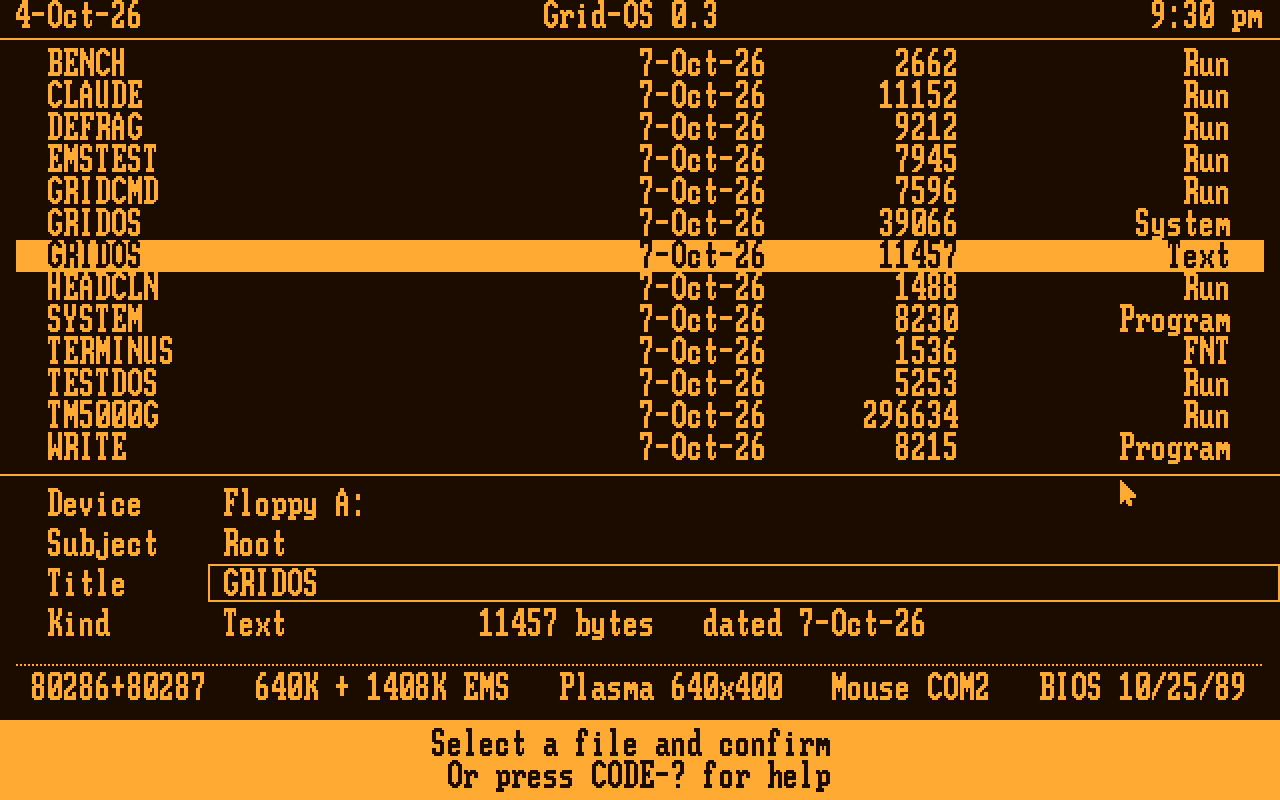
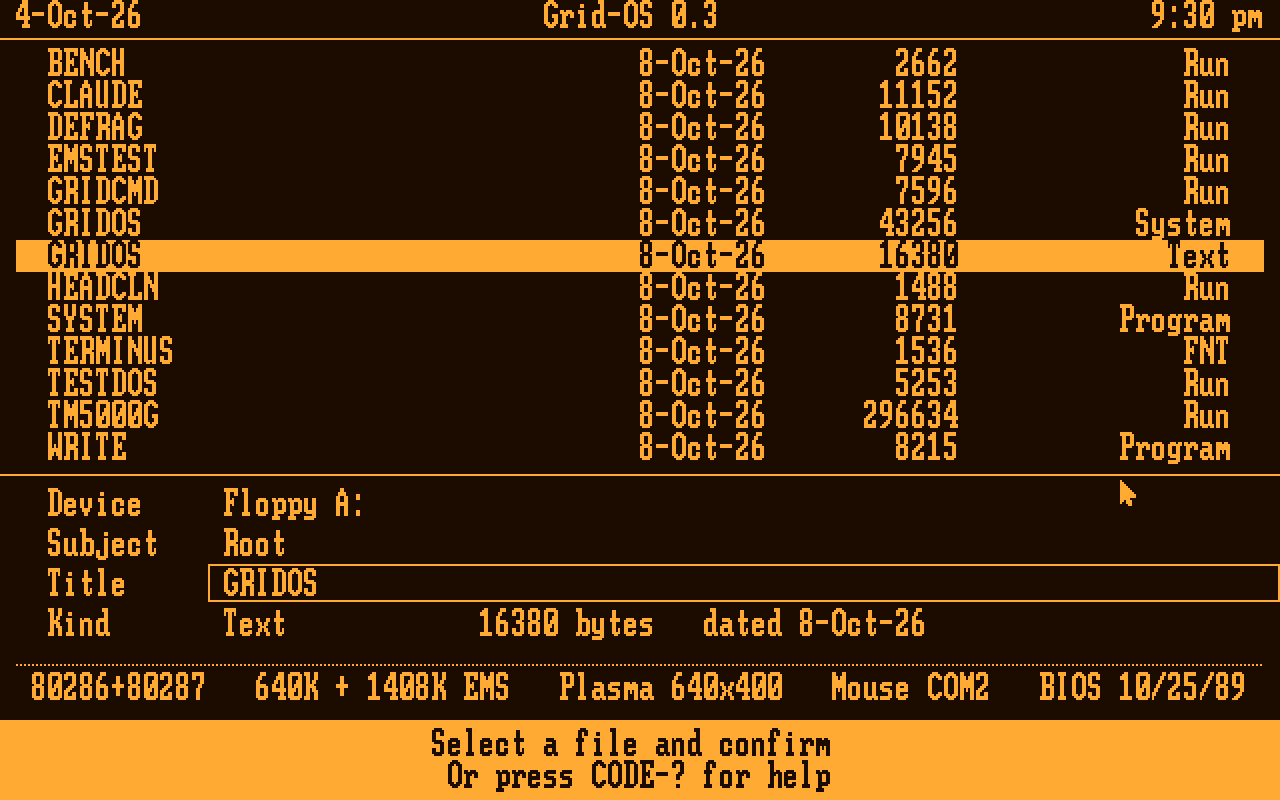
Refresh the README with fresh benchmarks for 0.3.13
- README rewritten for 0.3.13: a "What it does" section, the three-way
  BENCH rerun in the emulator (Grid-OS 79.2 s, GRiD MS-DOS 285.4 s,
  FreeDOS 283.2 s), memory for programs in all four configurations
  (floppies, EMS, C:, C: + EMS), the hard disk's figures on the 1520,
  every test suite with its count (635 checks, all passing), and the
  next steps.
- Screenshots regenerated, plus a new one of System's Disks with C:.
- RESULTS3.TXT: the 0.3.13 rerun, newest first.
- compare3.py / run_bench.py no longer print a stale version label.
- docs/gridos-defrag.md: the saver's source file and DEFRAG.COM's size.

diff --git a/gridos/screens/readme_shots.py b/gridos/screens/readme_shots.py
@@ -38,4 +38,18 @@ k.select('BENCH.COM'); k.pc.tty.clear(); k.key(ktest.ENTER, settle=False)
 k.pc.run_until(lambda: k.pc.mode() != 0x40, 10)
 k.pc.run_until(lambda: 'Press any key' in ''.join(k.pc.tty), 900)
 shot('bench')
+
+# System's Disks with the internal hard disk as C:: the CP30104H's own
+# partition table and boot sector, a few files on it
+import struct, pcemu, fat16img as F
+rom = os.path.join(GOS, '..', 'rom', 'hd_cp30104h')
+sect0 = open(os.path.join(rom, 'HDSECT0.BIN'), 'rb').read()
+plba, n = struct.unpack_from('<II', sect0, 446 + 8)
+f = F.Fat(n, 4, plba, True)
+f.finish(f.tree([('COMMAND.COM', 0x20, b'C' * 47845), ('TM5000', 0, [('TM5000G.EXE', 0x20, b'T' * 296634)])]))
+f.img[0:512] = open(os.path.join(rom, 'HDBOOT.BIN'), 'rb').read()
+d = bytearray(762 * 8 * 39 * 512); d[0:512] = sect0; d[plba * 512:(plba + n) * 512] = f.img
+ata = pcemu.Ata(model='Conner Peripherals 120MB - CP30104H', cyls=762, heads=8, spt=39, disk=d)
+k = ktest.KPC(img, ems_pages=88, ata=ata); k.start(20)
+k.key(CODE['U']); k.key(ktest.DOWN); shot('system_disks'); k.key(ktest.ESC)
 print('\n'.join(sorted(os.listdir(OUT))))

diff --git a/gridos/bench/run_bench.py b/gridos/bench/run_bench.py
@@ -74,7 +74,7 @@ if __name__ == '__main__':
     if not ROM: sys.exit('needs the GRiD MS-DOS EPROM image (GRID_MSDOS330_ROM_300909-00.BIN)')
     t = time.time()
     g, gout = run_gridos()
-    print('==== Grid-OS 0.2.1 ====\n' + gout.strip() + '\n')
+    print('==== Grid-OS ====\n' + gout.strip() + '\n')
     d, dout = run_msdos()
     print('==== GRiD MS-DOS 3.30 ====\n' + dout.strip() + '\n')
     rg, rd = results(g), results(d)

diff --git a/gridos/bench/compare3.py b/gridos/bench/compare3.py
@@ -73,7 +73,7 @@ def freedos(prog, ems, limit=900):
 
 if __name__ == '__main__':
     t = time.time()
-    systems = (('Grid-OS 0.3.8', gridos), ('GRiD MS-DOS 3.30', msdos), ('FreeDOS 2046+FreeCOM', freedos))
+    systems = (('Grid-OS', gridos), ('GRiD MS-DOS 3.30', msdos), ('FreeDOS 2046+FreeCOM', freedos))
     mem = {}
     for name, run in systems:
         for ems in (0, EMS):

diff --git a/README.md b/README.md
@@ -1,53 +1,84 @@
 # Lodestone
 
-A fast DOS 3.30-compatible OS for the GRiDCase 1520 (80C286, 640×400 gas-plasma display, 1.44 MB floppy). It has its own Executive, a disk cache, a built-in GPIB driver, a screen saver that defragments its disks, and (from 0.3) a shared UI core with programs of its own: System and Write.
+A fast DOS 3.30-compatible OS for the GRiDCase 1520 (80C286, 640×400 gas-plasma display, 1.44 MB floppy; Joshua's also has an 80287 and 1408 KB of EMS). It has a GRiD-style Executive, a disk cache, a built-in GPIB driver, its own EMS manager, the internal hard disk as drive C:, and a screen saver that defragments every disk. Programs of its own (System and Write) run on a shared UI core.
 
 > **Name:** Lodestone is the working name. The code, the files on the floppy and the screen still say **Grid-OS** (`GRIDOS.SYS`, "Grid-OS 0.3"). Renaming those is a separate step.
 
-It boots from a floppy, shows a GRiD-style Executive, runs ordinary DOS programs (TM5000G, CLAUDE.COM, …) and comes back. On the real 1520 it runs the BENCH file-system benchmark in **83 s against GRiD MS-DOS's 289 s**, and it's ahead on all ten tests.
+It boots from a floppy, shows the Executive, runs ordinary DOS programs (TM5000G, CLAUDE.COM, …) and comes back. On the real 1520 it runs the BENCH file-system benchmark in **87 s against GRiD MS-DOS's 289 s**, more than 3× faster (83 s with 0.2.3).
 
 | | |
 |---|---|
 | ![The Executive](gridos/screens/readme/executive.png) | ![Copy with a wildcard](gridos/screens/readme/copy_wildcards.png) |
 | The Executive: GRiD's File form (Device, Subject, Title), the 1520's EMS and serial mouse in the status line | Copy, Move and Delete take wildcards, with Replace and Only newer |
-| ![System, Memory](gridos/screens/readme/system_memory.png) | ![Write](gridos/screens/readme/write.png) |
-| System: where the 640 KB goes, and the EMS | Write, a GRiDWrite-style editor |
+| ![System, Memory](gridos/screens/readme/system_memory.png) | ![System, Disks](gridos/screens/readme/system_disks.png) |
+| System: where the 640 KB goes, and the EMS | System: the floppy and the internal hard disk as C: (the 1520's own 121 MB Conner layout) |
+| ![Write](gridos/screens/readme/write.png) | ![BENCH](gridos/screens/readme/bench.png) |
+| Write, a GRiDWrite-style editor | BENCH 1.3 on Grid-OS with EMS |
 
 *Emulator screenshots (`gridos/screens/readme_shots.py`), drawn as the 1520's amber plasma shows them.*
 
+## What it does (0.3.13)
+
+- **A DOS 3.30 kernel** (`GRIDOS.SYS`, 43,256 bytes): INT 21h for the programs of its day, COM and EXE loading, TSRs, INT 24h, INT 25h/26h, FAT12 and FAT16.
+- **Disks:**
+  - **A:** and **B:** (the external floppy drive), with a cylinder read-ahead cache;
+  - **C:**, any IDE drive with a FAT16 partition up to 2 GB, driven through its own registers. The 1520's BIOS only knows a few Conner models, so Grid-OS doesn't use it for this. With a drive, C: costs about 3 KB of memory; without one, nothing is loaded.
+- **EMS:** Grid-OS is its own LIM 4.0 EMS manager when the 1520's memory is set to EMS. The disk cache moves into two EMS pages, so DOS programs get 16 KB more.
+- **GPIB:** the GRIDGPIB API on INT 60h is built in, with a faster block transfer. TM5000G and CLAUDE.COM run unchanged.
+- **The Executive:** GRiD's File form, with CODE-C Copy, CODE-M Move, CODE-R Rename and CODE-D Delete. They take wildcards, Replace and Only newer, and work on whole subjects (directories) too. CODE-P opens the command prompt (`GRIDCMD.COM`), CODE-U opens System, CODE-A starts Claude.
+- **System:** memory, disks, clock, devices (the hard disk's own name), GPIB, display (fonts), screen saver. Settings are kept in `GRIDOS.INI`.
+- **Write:** a GRiDWrite-style text editor.
+- **The screen saver** runs `DEFRAG` on A:, B: and C: in turn, then darkens the screen. A key stops it. Its delay and the tidying are settings.
+- **DEFRAG.COM:** defragments a floppy or C:, with a map of the disk. `/T` tests the free space instead: it writes a pattern into every free sector, reads it back, and marks the clusters that fail. A power cut during any of its writes leaves the old file or the new one, never a damaged one (tested at every write, on a floppy and on C:).
+- **Screen capture:** Shift-PrtSc saves the screen to `SCREENnn.BMP` (graphics) or `SCREENnn.TXT` (text) on the boot disk.
+- **An INT 33h mouse** for DOS programs: a serial mouse on COM1 or COM2.
+- **Claude for GRiD** (`gridos/claude`, `claude-link`): Claude on the GRiD through a Raspberry Pi on the GPIB bus. It can read and edit files, run DOS programs and talk to instruments, each step confirmed on the GRiD. It is tested in emulation and waits for the bridge hardware.
+
 ## Benchmarks: Grid-OS, GRiD MS-DOS 3.30 and FreeDOS
 
-BENCH 1.3 on all three in the emulator, from the same kind of 1.44 MB floppy, with the 1520's real-drive timing (300 rpm, seeks, rotation, motor) and its 1408 KB of EMS. Grid-OS runs its own EMS manager; GRiD MS-DOS and FreeDOS load GRiD's `EMM.SYS`. FreeDOS is kernel build 2046 (8086) with FreeCOM 0.87, built from [FDOS](https://github.com/FDOS) sources. Seconds, lower is better.
+BENCH 1.3 on all three in the emulator (rerun 2026-10-08 with 0.3.13), from the same kind of 1.44 MB floppy, with the 1520's real-drive timing (300 rpm, seeks, rotation, motor) and its 1408 KB of EMS. Grid-OS runs its own EMS manager; GRiD MS-DOS and FreeDOS load GRiD's `EMM.SYS`. FreeDOS is kernel build 2046 (8086) with FreeCOM 0.87, built from [FDOS](https://github.com/FDOS) sources. Seconds, lower is better.
 
-| Test | Grid-OS 0.3.8 | GRiD MS-DOS 3.30 | FreeDOS |
+| Test | Grid-OS 0.3.13 | GRiD MS-DOS 3.30 | FreeDOS |
 |---|---:|---:|---:|
-| Write 256 KB, 16 KB writes | **9.14** | 12.66 | 12.58 |
-| Read 256 KB, 16 KB reads | **8.71** | 11.41 | 11.23 |
-| Read 256 KB, 512-byte reads | **8.62** | 104.99 | 105.17 |
-| Read 256 KB, 128-byte reads | **8.64** | 104.99 | 107.97 |
-| 64 random 512-byte reads | **9.47** | 9.93 | 12.91 |
+| Write 256 KB, 16 KB writes | **9.25** | 12.66 | 12.58 |
+| Read 256 KB, 16 KB reads | **8.80** | 11.41 | 11.23 |
+| Read 256 KB, 512-byte reads | **8.80** | 104.99 | 105.17 |
+| Read 256 KB, 128-byte reads | **8.80** | 104.99 | 107.97 |
+| 64 random 512-byte reads | **9.33** | 9.93 | 12.91 |
 | Directory listing ×10 | **0.02** | 0.07 | 0.14 |
 | Open + close ×100 | **0.22** | 0.42 | 0.91 |
-| 20 small files, create + delete | 21.59 | 26.12 | **16.71** |
-| Load + run a 120 KB .EXE ×3 | **12.64** | 14.68 | 15.29 |
-| INT 21h calls ×1000 | **0.10** | 0.12 | 0.26 |
-| **File-system total** | **79.1** | 285.4 | 283.2 |
+| 20 small files, create + delete | 21.69 | 26.12 | **16.71** |
+| Load + run a 120 KB .EXE ×3 | **12.13** | 14.68 | 15.29 |
+| INT 21h calls ×1000 | **0.11** | 0.12 | 0.26 |
+| **File-system total** | **79.2** | 285.4 | 283.2 |
 | EMS: map a page ×10,000 | **0.42** | 2.86 | 2.86 |
 | EMS: move 1 MB to EMS (57h) | **0.36** | 0.51 | 0.51 |
 | EMS: move 1 MB from EMS (57h) | **0.36** | 0.51 | 0.51 |
-| Memory for programs, no EMS | 564.2 KB | **580.4 KB** | 501.5 KB |
-| Memory for programs, with EMS | **580.3 KB** | 573.1 KB | 494.2 KB |
+| Memory for programs, no EMS | 562.5 KB | **580.4 KB** | 501.5 KB |
+| Memory for programs, with EMS | **578.6 KB** | 573.1 KB | 494.2 KB |
 
 - **Reads:** Grid-OS reads ahead a cylinder at a time, so small reads cost almost nothing; GRiD MS-DOS and FreeDOS wait a turn of the disk for each.
-- **Small files:** FreeDOS wins this one, with as many writes as Grid-OS. Part of it is where its files happen to land (its system files are bigger, which moves BENCH's files to where the FAT sector follows the directory sector). The rest is write order: Grid-OS writes the FAT before the directory entry at close, so a power cut can only lose clusters, never cross-link files. That costs a turn of the disk per file here.
-- **EMS:** Grid-OS's own EMS manager maps a page about 7× faster than `EMM.SYS` and moves data about 1.4× faster, in 1.9 KB of memory against 7.3 KB.
-- **Memory:** with EMS, Grid-OS keeps its 18 KB disk cache in two EMS pages, so a DOS program gets **580.3 KB**, more than GRiD MS-DOS with `EMM.SYS` (573.1 KB), with the same read speeds. Without EMS the cache stays in conventional memory and GRiD MS-DOS leaves 16 KB more. FreeDOS can't load high on a 286, and its shell is large.
+- **Small files:** FreeDOS wins this one, with as many writes as Grid-OS. Part of it is where its files happen to land: its system files are bigger, which moves BENCH's files to where the FAT sector follows the directory sector. The rest is write order. Grid-OS writes the FAT before the directory entry at close, so a power cut can only lose clusters, never cross-link files. That costs a turn of the disk per file here.
+- **EMS:** Grid-OS's EMS manager maps a page about 7× faster than `EMM.SYS` and moves data about 1.4× faster, in 1.9 KB of memory against 7.3 KB.
+- **Memory:** with EMS, Grid-OS keeps its 18 KB disk cache in two EMS pages, so a DOS program gets more than under GRiD MS-DOS with `EMM.SYS`, with the same read speeds. Without EMS the cache stays in conventional memory and GRiD MS-DOS leaves 18 KB more. FreeDOS can't load high on a 286, and its shell is large.
+- **Since 0.3.8:** the file-system total is unchanged (79.2 s against 79.1 s). Screen capture, the kernel's part of drive C:, the saver's round of the disks and copying subjects cost DOS programs 1.7 KB in all.
 
-![BENCH on Grid-OS](gridos/screens/readme/bench.png)
+### Memory, by configuration
+
+What a DOS program gets when started from the Executive (MEMSZ; System's "Free for programs" shows 0.1 KB more), 0.3.13 in the emulator:
+
+| | Floppies only | With EMS | With C: | With C: and EMS |
+|---|---:|---:|---:|---:|
+| Kernel (DOS, GPIB, and EMS / C: when there) | 30.6 KB | 32.5 KB | 33.9 KB | 35.4 KB |
+| Executive and UI core | 34.7 KB | 34.7 KB | 34.7 KB | 34.7 KB |
+| Disk cache | 18.0 KB | 32 KB of EMS | 18.0 KB | 32 KB of EMS |
+| **Free for programs** | **562.5 KB** | **578.6 KB** | **559.2 KB** | **575.7 KB** |
+
+The rows add up to more than 640 KB because 7.5 KB of the Executive's share is its directory buffer, lent to a DOS program while it runs, so it counts in both rows. From the command prompt (`GRIDCMD.COM` resident) a program gets 16.1 KB less. The Executive otherwise stays resident: Grid-OS is meant to become multitasking.
 
 ### On the real 1520
 
-BENCH on Joshua's GRiDCase 1520, from its own 1.44 MB floppy (seconds). The 2026-10-07 runs use the 0.3.8 kernel, which keeps the disk cache in EMS.
+BENCH on Joshua's GRiDCase 1520, from its own 1.44 MB floppy (seconds). These are the latest runs on the machine. In the emulator, 0.3.13's floppy times are the same as 0.3.8's, so these still stand. The real machine runs a few seconds slower than the emulator; totals also move with where BENCH's files land on a well-used floppy (below).
 
 | Test | GRiD MS-DOS 3.30 | Grid-OS 0.2.3, 2026-10-05 | Grid-OS 0.3.8, 2026-10-07 | the same, after DEFRAG |
 |---|---:|---:|---:|---:|
@@ -66,30 +97,35 @@ BENCH on Joshua's GRiDCase 1520, from its own 1.44 MB floppy (seconds). The 2026
 | EMS: map a page ×10,000 | | | 0.27 | 0.21 |
 | EMS: move 1 MB to / from EMS | | | 0.38 / 0.32 | 0.38 / 0.32 |
 
-- **Memory:** with the disk cache in EMS (0.3.8), a DOS program gets 580 KB on the real machine, 9 KB more than under GRiD MS-DOS (571 KB), while Grid-OS also runs its own EMS manager, the cache and the Executive.
-- **EMS on the real 1520:** a page map takes about 21–27 µs, and 57h moves run at 2.7–3.1 MB/s.
+- **Memory:** with the disk cache in EMS, a DOS program gets 580 KB on the real machine, 9 KB more than under GRiD MS-DOS (571 KB with its usual drivers), while Grid-OS also runs its own EMS manager, the cache and the Executive.
+- **EMS on the real 1520:** a page map takes about 21–27 µs, and 57h moves run at 2.7–3.1 MB/s. RAMSPEED measured EMS pages at the full speed of conventional memory (copy 3,074 KB/s).
+- **The internal hard disk (a 121 MB Conner CP30104H):**
+  - a read of every sector ran at 463 KB/s (HDSCAN);
+  - `DEFRAG C:` took about 15 s;
+  - `DEFRAG C: /T` tested all 117,577 KB free in about 15 minutes and fenced off the drive's one weak spot (14 clusters).
 - **Run to run:** totals move by a few seconds with where BENCH's files land on a well-used floppy. After DEFRAG the free space starts further in, which is slower here: drive A:'s head 0 is marginal on the innermost tracks, so some tracks are read a sector at a time.
 
-Logs: `gridos/bench/BENCH_1520_2026-10-05*.TXT` and `BENCH_1520_2026-10-07.TXT`.
+Logs: `gridos/bench/BENCH_1520_*.TXT`, `DEFRAG_1520_2026-10-07_C.TXT`, `EMSTEST_1520_2026-10-07.TXT`, and `rom/HDSCAN_*.TXT`.
 
-Run it with `python3 gridos/bench/compare3.py <GRiD MS-DOS EPROM image> <EMM.SYS>` (about 4 minutes); details and notes in `gridos/bench/RESULTS3.TXT`. The earlier two-way runs, and the runs on the real 1520, are in `gridos/bench/RESULTS.TXT`.
+Run the comparison with `python3 gridos/bench/compare3.py <GRiD MS-DOS EPROM image> <EMM.SYS>` (about 4 minutes); results and notes are in `gridos/bench/RESULTS3.TXT`, newest first. The earlier two-way runs, and the runs on the real 1520, are in `gridos/bench/RESULTS.TXT`.
 
 ## What's here
 
 | Folder | What |
 |---|---|
-| `gridos/src` | The OS, in NASM: boot sector (`BOOT.ASM`), `GOSBOOT.COM` (installs the boot sector), the kernel (`GRIDOS.ASM` + `K*.INC`), the UI core (`UICORE.INC`, its API in `UIAPI.INC`) and the Executive (`EXEC.INC`), the shell `GRIDCMD.COM`, `DEFRAG.COM`, `HEADCLN.COM` (drive head cleaning with a wet cleaning disk) |
-| `gridos/apps` | Programs on the UI core (`.RUN`, built with `gridos/mkrun.py`): `SYSTEM.RUN` (Usage: memory, disks, clock, devices, GPIB) and `WRITE.RUN` (a GRiDWrite-style editor) |
-| `gridos/tests` | `pcemu`-based tests: kernel (177 checks), the UI core, programs, INT 33h and the file commands (367), the hard disk (56), DEFRAG (49) and a power cut at every DEFRAG write, HEADCLN (9), the Claude-link scenarios, GGTEST; also TESTDOS / CACHETST / CAPTEST / UPPER / MEMSZ / TSR / MDTEST / M33TEST and the other M33 programs (DOS programs) and UITEST.RUN |
-| `gridos/bench` | BENCH.COM, DISKMAP.COM, `run_bench.py` (Lodestone against GRiD MS-DOS in the emulator), `compare3.py` (against GRiD MS-DOS and FreeDOS, with EMS; FreeDOS's files in `bench/freedos`), profiling tools, `RESULTS.TXT`, `RESULTS3.TXT` and the 1520 logs |
+| `gridos/src` | The OS, in NASM: the boot sector (`BOOT.ASM`), `GOSBOOT.COM` (installs it), the kernel (`GRIDOS.ASM` + `K*.INC`: `KEMS.INC` the EMS manager, `KHD.INC` the hard disk, `KGPIB.INC` GPIB), the UI core (`UICORE.INC`, its API in `UIAPI.INC`) and the Executive (`EXEC.INC`), the shell `GRIDCMD.COM`, `DEFRAG.COM`, `HEADCLN.COM` (drive head cleaning with a wet cleaning disk) |
+| `gridos/apps` | Programs on the UI core (`.RUN`, built with `gridos/mkrun.py`): `SYSTEM.RUN` and `WRITE.RUN` |
+| `gridos/fonts` | `TERMINUS.FNT`, an 8×16 font System can switch to (GRiD's own is built in) |
+| `gridos/tests` | `pcemu`-based tests (the counts are under Tests below), and the DOS programs they run: TESTDOS, CACHETST, CAPTEST, EMSTEST, HDABS, HDFLUSH, MEMSZ, TSR, UPPER, the M33 programs, UITEST.RUN |
+| `gridos/bench` | BENCH.COM, DISKMAP.COM, `run_bench.py` (against GRiD MS-DOS), `compare3.py` (against GRiD MS-DOS and FreeDOS, with EMS; FreeDOS's files in `bench/freedos`), profiling tools, `RESULTS.TXT`, `RESULTS3.TXT` and the 1520 logs |
 | `gridos/claude` | CLAUDE.COM, Claude for GRiD (the GRiD side of claude-link) |
-| `gridos/releases` | Builds for the floppy, 0.1 to 0.3.14 |
+| `gridos/releases` | Builds for the floppy, 0.1 to 0.3.13 |
 | `gridos/screens` | Emulator screenshots (`readme/` for this page, made by `readme_shots.py`) |
-| `gridos/*.py` | `pcemu.py` (a BIOS-level PC in unicorn: INT 13h with real-drive timing, mode 40h, 7210 GPIB model), `ktest.py`, `mkimg.py`, `psf.py`, `sim7210.py`; `gosim.py` and `test_*.py` are the 0.1 harness |
+| `gridos/*.py` | `pcemu.py` (a BIOS-level PC in unicorn: INT 13h with real-drive timing, mode 40h, the 7210 GPIB chip, EMS, an IDE drive), `ktest.py`, `mkimg.py`, `mkrun.py`, `psf.py`, `sim7210.py`, `typfont.py` (builds the fonts); `gosim.py` and `test_*.py` are the 0.1 harness |
 | `claude-link` | `gridlink` on the Raspberry Pi: GRiD ↔ GPIB (AR488 Nano) ↔ Pi ↔ Claude API, the AR488 patch, and its tests |
-| `tools` | 1520 tools: GRIDGPIB (GPIB driver for GRiD MS-DOS), GPIBSCAN/GPIBTEST/GGTEST, MEMPROBE, GRIDPROBE, HDPROBE and HDSCAN (the internal hard disk, read-only: diagnosis, and what's on it plus a read of every sector), EMSKEEP (does EMS keep its contents through Ctrl-Alt-Del?), RAMSPEED, ROMDUMP, the C GPIB library, and TM5000G.EXE (a test fixture; its source lives in the TM5000 repo) |
-| `rom` | Our notes on the 1520 BIOS (a symbol map) and a hardware probe log; no ROM images (see below) |
-| `docs` | Design notes: kernel, the UI core and programs (0.3), DEFRAG and the saver, the floppy development loop |
+| `tools` | 1520 tools: GRIDGPIB (GPIB driver for GRiD MS-DOS), GPIBSCAN, GPIBTEST, GGTEST, GRIDMEM (EMS or extended memory), MEMPROBE, GRIDPROBE, RAMSPEED, ROMDUMP, HDPROBE and HDSCAN (the internal hard disk, read-only: diagnosis, and a read of every sector), the C GPIB library, and TM5000G.EXE (a test fixture; its source lives in the TM5000 repo) |
+| `rom` | Our notes on the 1520 BIOS (a symbol map), probe and scan logs, and the hard disk's partition and boot sectors; no ROM images (see below) |
+| `docs` | Design notes: the 0.2 kernel, the UI core and programs (0.3, with EMS, screen capture and the hard disk), DEFRAG and the saver, the floppy development loop |
 
 ## Build
 
@@ -105,17 +141,19 @@ The built binaries are committed too, so a fresh clone can go straight onto a fl
 
 ## Tests (emulator)
 
-Needs Python 3, `unicorn` 2.x and mtools.
+Needs Python 3, `unicorn` 2.x and mtools. All 635 checks pass on 0.3.13 (2026-10-08).
 
 ```sh
 cd gridos
-python3 tests/test_kernel.py          # 177 checks
-python3 tests/test_apps.py            # 367 checks (add "shots" for screens/0.3)
-python3 tests/test_hd.py              # 56 checks (C:, and C: with M:)
-python3 tests/test_defrag.py          # 49 checks
-python3 tests/defrag_cut.py 2         # power cut at every DEFRAG write (~20 min)
-python3 tests/defrag_cut.py 2 worn    # the same on a simulated worn drive
-python3 tests/test_claude_kernel.py   # Claude-link scenarios on the kernel
+python3 tests/test_kernel.py          # 120 checks: DOS calls, files, EXEC, the cache, EMS, capture
+python3 tests/test_apps.py            # 335 checks: UI core, Executive, System, Write, mouse, files (add "shots" for screens/0.3)
+python3 tests/test_hd.py              # 48 checks: drive C:
+python3 tests/test_defrag.py          # 49 checks: DEFRAG on floppies and C:, the saver's round
+python3 tests/test_claude_kernel.py   # 21 Claude-link scenarios on the kernel
+python3 tests/test_hdprobe.py         # 33 checks: HDPROBE
+python3 tests/test_hdscan.py          # 20 checks: HDSCAN
+python3 tests/test_headcln.py         # 9 checks: HEADCLN
+python3 tests/defrag_cut.py 2         # a power cut at every DEFRAG write (~20 min; "2 hd" for C:, "2 worn" for a worn drive)
 python3 bench/run_bench.py <GRiD MS-DOS EPROM image>
 ```
 
@@ -136,6 +174,12 @@ These aren't ours to publish, even privately: the 1520 BIOS and GRiD MS-DOS ROM 
 
 ## Status
 
-Grid-OS 0.3.9 runs on the 1520. It boots, runs TESTDOS, TM5000G and CLAUDE.COM, and the screen saver defragments the floppy.
+Grid-OS 0.3.13 runs on the 1520: it boots, runs TESTDOS, TM5000G and CLAUDE.COM, uses the internal hard disk as C:, and the screen saver tidies every disk. See `docs/gridos-0.3-apps.md` for 0.3 release by release.
 
-0.3 put the Executive on a shared UI core and added System and Write, GRiD's font, the File form, file commands with wildcards (Copy, Move, Rename, Delete, subjects too), an INT 33h mouse for DOS programs, a settable screen saver, and Grid-OS's own LIM 4.0 EMS manager (EMSTEST: 22 passed on the 1520). 0.3.8 keeps the disk cache in EMS when there is EMS: DOS programs get about 580 KB with EMS, 564 KB without. 0.3.9 adds screen capture: Shift-PrtSc saves the screen to `SCREENnn.BMP` (graphics) or `SCREENnn.TXT` (text) on the boot disk. 0.3.10 drives the internal hard disk itself as C: (any IDE drive with a FAT16 partition, up to 2 GB; the 1520's BIOS only knows a few Conner models): 2.8 KB of memory with a drive, 0.2 KB without (nothing is loaded). 0.3.11 lets DEFRAG tidy C: as well (through the kernel's new INT 25h/26h). 0.3.12 has the screen saver tidy every disk in turn: A:, B:, then C:. 0.3.13 copies whole subjects: with Subject outlined, CODE-C copies the subject and everything below it (Root: the whole disk) to another disk or subject, with Replace and Only newer, so a subject's backup to B: is one form. 0.3.14 adds M:, the temporary disk: a RAM disk in EMS (256 KB unless System's Temporary disk topic or `MDISK=` in GRIDOS.INI says otherwise; off to all the free EMS), for Claude's scratchpad once Claude stays resident; it costs DOS programs no memory, and nothing at all when off or without EMS. See `docs/gridos-0.3-apps.md`. Next: Term and Command. The roadmap and the hardware notes are in the claude.ai Project.
+**Next:**
+1. Claude on the real GPIB bridge.
+2. An EMS RAM disk, M:: fast scratch space and Claude's scratchpad. It is being built now.
+3. Claude staying resident, working alongside DOS programs.
+4. Term and Command.
+
+Later come a plot view and instrument programs for the GPIB bench (scopes, the VNA), and a calculator on the 80287. The roadmap and the hardware notes are in the claude.ai Project.

diff --git a/docs/gridos-defrag.md b/docs/gridos-defrag.md
@@ -220,8 +220,8 @@ Joshua: "the same operation just using the internal drive", with as much code re
   - **`test_hd.py t_abs`:** INT 25h/26h itself. A read past sector 65,535, A: and the old form refused, a bad sector's error, interrupts on afterwards, and the kernel reading new data after a write (it fails with the cache-dropping removed).
 
 ## Files
-- **Source:** `src\DEFRAG.ASM` (its header describes all of the above). The saver is in `src\EXECRUN.INC` (`saver`, `sv_move`, `sv_defrag`) and the `main` loop of EXEC.INC.
-- **Size:** DEFRAG.COM is **10,124 bytes** (0.3.11; 9,158 in 0.2.2), including the 1.5 KB font. While it runs it needs memory sized to the disk (above) plus a 36 KB DMA buffer block; nothing stays behind.
+- **Source:** `src\DEFRAG.ASM` (its header describes all of the above). The saver is in `src\UICORE.INC` (`saver`, `sv_move`, `sv_defrag`).
+- **Size:** DEFRAG.COM is **10,138 bytes** (0.3.12; 9,158 in 0.2.2), including the 1.5 KB font. While it runs it needs memory sized to the disk (above) plus a 36 KB DMA buffer block; nothing stays behind.
 - **Version:** Grid-OS 0.2.2, kernel 24,400 bytes, 570 KB for programs.
 
 ## Possible later
